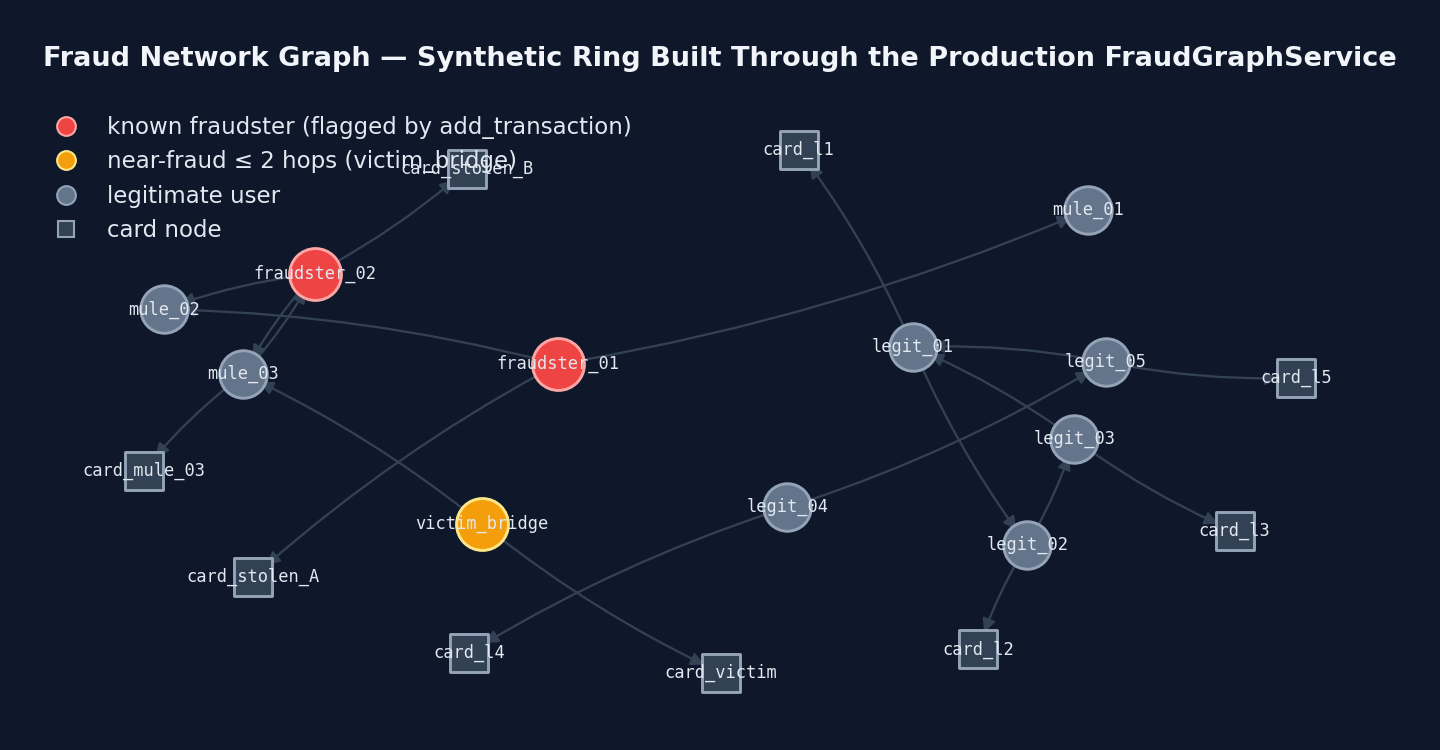
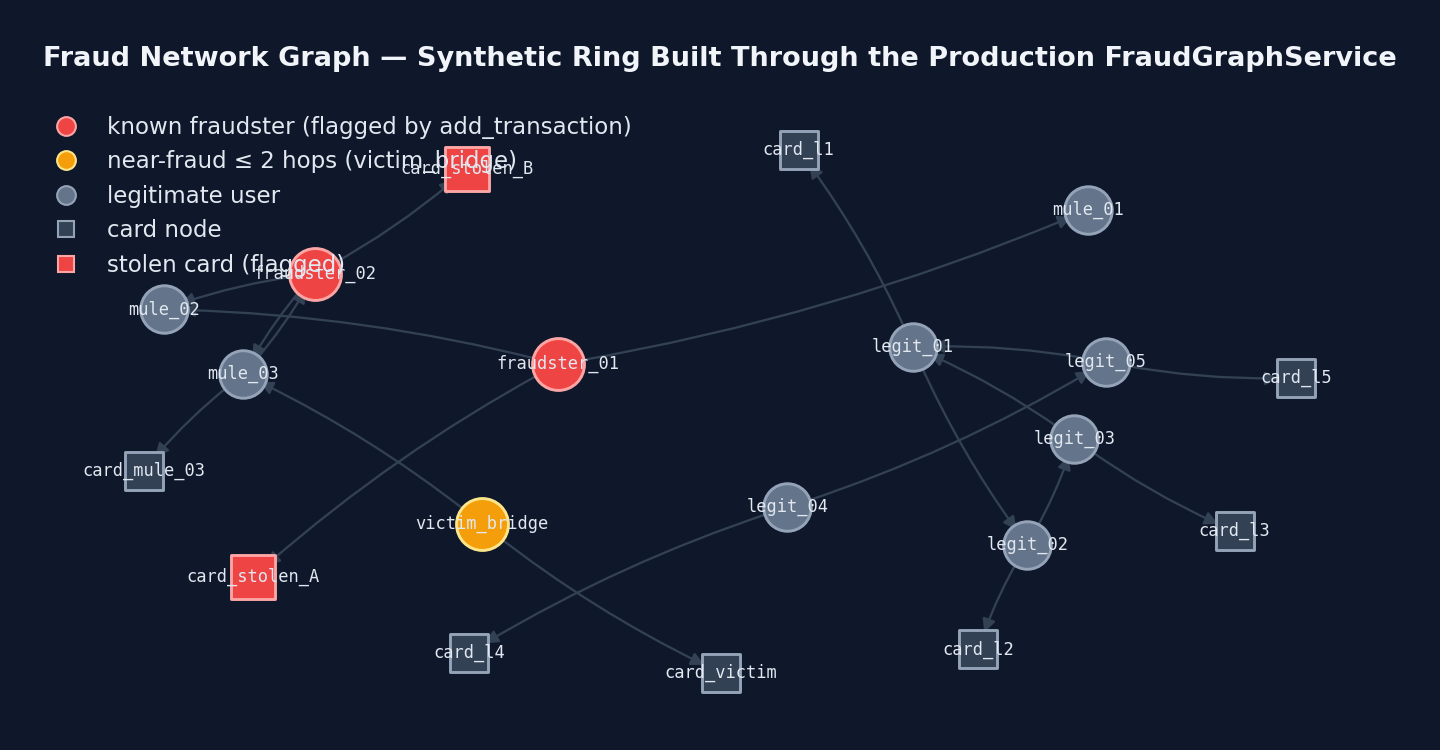
chore(case-study): close phase-c review findings
Network figure now renders flagged stolen cards as red squares matching the service flags and its own alt/caption text; fixed an English calque and two register slips in ES copy; harmonized ES alt decimals to comma convention and unified rel=noopener noreferrer on external links.

Changed region(s): [[0.0312, 0.3373, 0.25, 0.368], [0.1562, 0.736, 0.2188, 0.828], [0.2812, 0.184, 0.3438, 0.276]]

diff --git a/case-study/es/ch-08-drift.html b/case-study/es/ch-08-drift.html
@@ -61,7 +61,7 @@
         </ul>
 
         <figure class="figure">
-          <img loading="lazy" decoding="async" src="../assets/feature-drift.png" alt="Gráfico de barras horizontales del Population Stability Index por feature bajo un escenario de drift simulado: amount se dispara a 0.634, muy por encima de la línea crítica roja en 0.25, mientras velocity_5min muestra una pequeña suba en 0.016 y user_avg_amount, user_std_amount y velocity_1h quedan planos cerca de cero; líneas punteadas ámbar y roja marcan los umbrales convencionales warn 0.10 y critical 0.25." width="1440" height="750">
+          <img loading="lazy" decoding="async" src="../assets/feature-drift.png" alt="Gráfico de barras horizontales del Population Stability Index por feature bajo un escenario de drift simulado: amount se dispara a 0,634, muy por encima de la línea crítica roja en 0,25, mientras velocity_5min muestra una pequeña suba en 0,016 y user_avg_amount, user_std_amount y velocity_1h quedan planos cerca de cero; líneas punteadas ámbar y roja marcan los umbrales convencionales warn 0,10 y critical 0,25." width="1440" height="750">
           <figcaption><strong>Escenario de drift simulado:</strong> PSI calculado con numpy puro
           entre dos ventanas reales de <code>data/synthetic_transactions.csv</code> — filas
           0&ndash;24.999 de referencia intactas contra filas 25.000&ndash;49.999 actuales llevando
@@ -69,8 +69,8 @@
           &times;1,6 sobre toda la ventana actual; <code>velocity_5min</code> &times;3 sobre su
           último 15%, la columna del CSV detrás de la feature de producción
           <code>tx_count_last_5min</code>). Resultado: amount rebasa con creces el umbral crítico
-          convencional mientras las features intactas se pegan a cero — exactamente lo que un
-          ataque real de inflación de importes se vería ante este detector. Las líneas
+          convencional mientras las features intactas se pegan a cero — exactamente cómo
+          se vería un ataque real de inflación de importes ante este detector. Las líneas
           0,10 / 0,25 son las lecturas convencionales de la industria para PSI (warn / critical),
           no alarmas específicas del proyecto. Artefacto:
           <code>case-study/assets/feature-drift.png</code>, generado por
@@ -109,7 +109,7 @@
         <p>Proyecto de portfolio de IA/ML. Cada número de estas páginas se remonta a un artefacto real del repositorio.</p>
       </div>
       <div class="footer-col">
-        <p><a href="https://github.com/mikelrh-dev/fraud-detector" target="_blank" rel="noopener noreferrer">GitHub</a> · <a href="mailto:mikelromerohomobono@gmail.com">Email</a> · <a href="https://www.linkedin.com/in/mikel-romero-homobono-760878337" target="_blank" rel="noopener">LinkedIn</a></p>
+        <p><a href="https://github.com/mikelrh-dev/fraud-detector" target="_blank" rel="noopener noreferrer">GitHub</a> · <a href="mailto:mikelromerohomobono@gmail.com">Email</a> · <a href="https://www.linkedin.com/in/mikel-romero-homobono-760878337" target="_blank" rel="noopener noreferrer">LinkedIn</a></p>
         <p>Stack: FastAPI · XGBoost · SHAP · Redis Streams · Ollama · React 19</p>
       </div>
     </div>

diff --git a/case-study/es/ch-07-network-signals.html b/case-study/es/ch-07-network-signals.html
@@ -69,12 +69,13 @@
         transacción.</p>
 
         <figure class="figure">
-          <img loading="lazy" decoding="async" src="../assets/network-graph.png" alt="Grafo dirigido de un anillo de fraude sintético: cuatro nodos rojos marcan defraudadores conocidos y tarjetas robadas señaladas por el servicio de producción, un nodo ámbar marca un usuario legítimo a exactamente dos saltos de un defraudador vía una cuenta mula, círculos pizarra son usuarios legítimos, cuadrados pizarra son nodos de tarjeta, flechas pizarra finas muestran la dirección de las transacciones." width="1440" height="750">
+          <img loading="lazy" decoding="async" src="../assets/network-graph.png" alt="Grafo dirigido de un anillo de fraude sintético: dos círculos rojos marcan remitentes defraudadores conocidos y dos cuadrados rojos sus tarjetas robadas señaladas, un nodo ámbar marca un usuario legítimo a exactamente dos saltos de un defraudador vía una cuenta mula, círculos pizarra son usuarios legítimos, cuadrados pizarra son nodos de tarjeta limpios, flechas pizarra finas muestran la dirección de las transacciones." width="1440" height="750">
           <figcaption><strong>Anillo sintético, detección real:</strong> cada nodo, arista y
           bandera de defraudador fue creado llamando al
           <code>FraudGraphService.add_transaction()</code> de producción — el mismo camino de
           código que ejercita cada request a la API. Las transacciones fraudulentas marcan
-          remitentes y tarjetas como defraudadores conocidos (rojo);
+          remitentes (círculos rojos) y sus tarjetas (cuadrados rojos) como
+          defraudadores conocidos;
           <span class="tone-warn">victim_bridge</span> (ámbar) simplemente paga a una cuenta mula y
           queda a exactamente 2 saltos dirigidos de uno, así que
           <code>get_graph_features()</code> devuelve <code>is_near_fraud=1</code> y la regla
@@ -128,7 +129,7 @@
         <p>Proyecto de portfolio de IA/ML. Cada número de estas páginas se remonta a un artefacto real del repositorio.</p>
       </div>
       <div class="footer-col">
-        <p><a href="https://github.com/mikelrh-dev/fraud-detector" target="_blank" rel="noopener noreferrer">GitHub</a> · <a href="mailto:mikelromerohomobono@gmail.com">Email</a> · <a href="https://www.linkedin.com/in/mikel-romero-homobono-760878337" target="_blank" rel="noopener">LinkedIn</a></p>
+        <p><a href="https://github.com/mikelrh-dev/fraud-detector" target="_blank" rel="noopener noreferrer">GitHub</a> · <a href="mailto:mikelromerohomobono@gmail.com">Email</a> · <a href="https://www.linkedin.com/in/mikel-romero-homobono-760878337" target="_blank" rel="noopener noreferrer">LinkedIn</a></p>
         <p>Stack: FastAPI · XGBoost · SHAP · Redis Streams · Ollama · React 19</p>
       </div>
     </div>

diff --git a/case-study/en/ch-07-network-signals.html b/case-study/en/ch-07-network-signals.html
@@ -67,11 +67,12 @@
         one transaction.</p>
 
         <figure class="figure">
-          <img loading="lazy" decoding="async" src="../assets/network-graph.png" alt="Directed network graph of a synthetic fraud ring: four red nodes mark known fraudsters and stolen cards flagged by the production service, an amber node marks a legitimate user sitting exactly two hops from a fraudster through a mule account, slate circles are legitimate users, slate squares are card nodes, thin slate arrows show transaction direction." width="1440" height="750">
+          <img loading="lazy" decoding="async" src="../assets/network-graph.png" alt="Directed network graph of a synthetic fraud ring: two red circles mark known fraudster senders and two red squares their flagged stolen cards, an amber node marks a legitimate user sitting exactly two hops from a fraudster through a mule account, slate circles are legitimate users, slate squares are clean card nodes, thin slate arrows show transaction direction." width="1440" height="750">
           <figcaption><strong>Synthetic ring, real detection:</strong> every node, edge and
           fraudster flag above was created by calling the production
           <code>FraudGraphService.add_transaction()</code> — the exact code path each API request
-          exercises. Fraudulent transactions mark senders and cards as known fraudsters (red);
+          exercises. Fraudulent transactions mark senders (red circles) and their
+          cards (red squares) as known fraudsters;
           <span class="tone-warn">victim_bridge</span> (amber) simply pays a mule account and
           lands exactly 2 directed hops from one, so <code>get_graph_features()</code> returns
           <code>is_near_fraud=1</code> and the <code>near_fraud</code> rule fires (+15). The
@@ -122,7 +123,7 @@
         <p>Built as an AI/ML portfolio project. Every number on these pages traces back to a real artifact in the repository.</p>
       </div>
       <div class="footer-col">
-        <p><a href="https://github.com/mikelrh-dev/fraud-detector" target="_blank" rel="noopener noreferrer">GitHub</a> · <a href="mailto:mikelromerohomobono@gmail.com">Email</a> · <a href="https://www.linkedin.com/in/mikel-romero-homobono-760878337" target="_blank" rel="noopener">LinkedIn</a></p>
+        <p><a href="https://github.com/mikelrh-dev/fraud-detector" target="_blank" rel="noopener noreferrer">GitHub</a> · <a href="mailto:mikelromerohomobono@gmail.com">Email</a> · <a href="https://www.linkedin.com/in/mikel-romero-homobono-760878337" target="_blank" rel="noopener noreferrer">LinkedIn</a></p>
         <p>Stack: FastAPI · XGBoost · SHAP · Redis Streams · Ollama · React 19</p>
       </div>
     </div>

diff --git a/case-study/es/ch-11-aprendizajes.html b/case-study/es/ch-11-aprendizajes.html
@@ -123,12 +123,12 @@
         <hr class="section-divider">
         <div class="callout">
           <span class="callout-title">Hablemos</span>
-          <p>Si este caso de estudio resuena contigo — la arquitectura primero, los números
+          <p>Si este caso de estudio te interesa — la arquitectura primero, los números
           honestos, la obsesión por la confiabilidad — me encantaría conversar.</p>
         </div>
         <div class="link-btn-group">
           <a class="link-btn btn-solid" href="mailto:mikelromerohomobono@gmail.com">Escríbeme &rarr;</a>
-          <a class="link-btn" href="https://www.linkedin.com/in/mikel-romero-homobono-760878337" target="_blank" rel="noopener">LinkedIn &rarr;</a>
+          <a class="link-btn" href="https://www.linkedin.com/in/mikel-romero-homobono-760878337" target="_blank" rel="noopener noreferrer">LinkedIn &rarr;</a>
           <a class="link-btn" href="https://github.com/mikelrh-dev/fraud-detector" target="_blank" rel="noopener noreferrer">GitHub &rarr;</a>
         </div>
       </div>
@@ -143,7 +143,7 @@
         <p>Proyecto de portfolio de IA/ML. Cada número de estas páginas se remonta a un artefacto real del repositorio.</p>
       </div>
       <div class="footer-col">
-        <p><a href="https://github.com/mikelrh-dev/fraud-detector" target="_blank" rel="noopener noreferrer">GitHub</a> · <a href="mailto:mikelromerohomobono@gmail.com">Email</a> · <a href="https://www.linkedin.com/in/mikel-romero-homobono-760878337" target="_blank" rel="noopener">LinkedIn</a></p>
+        <p><a href="https://github.com/mikelrh-dev/fraud-detector" target="_blank" rel="noopener noreferrer">GitHub</a> · <a href="mailto:mikelromerohomobono@gmail.com">Email</a> · <a href="https://www.linkedin.com/in/mikel-romero-homobono-760878337" target="_blank" rel="noopener noreferrer">LinkedIn</a></p>
         <p>Stack: FastAPI · XGBoost · SHAP · Redis Streams · Ollama · React 19</p>
       </div>
     </div>

diff --git a/case-study/es/ch-09-reliability.html b/case-study/es/ch-09-reliability.html
@@ -162,7 +162,7 @@
             <text x="48" y="202" font-family="'Source Sans 3', -apple-system, BlinkMacSystemFont, sans-serif" font-size="14" font-weight="600" fill="#f1f5f9">Garantías de entrega</text>
 
             <circle cx="58" cy="234" r="4.5" fill="#22c55e"/>
-            <text x="74" y="230" font-family="'Source Sans 3', -apple-system, BlinkMacSystemFont, sans-serif" font-size="12" fill="#cbd5e1">XACK recién después de que el worker</text>
+            <text x="74" y="230" font-family="'Source Sans 3', -apple-system, BlinkMacSystemFont, sans-serif" font-size="12" fill="#cbd5e1">XACK solo después de que el worker</text>
             <text x="74" y="248" font-family="'Source Sans 3', -apple-system, BlinkMacSystemFont, sans-serif" font-size="12" fill="#cbd5e1">persiste su resultado — sin pérdida silenciosa.</text>
 
             <circle cx="58" cy="292" r="4.5" fill="#f59e0b"/>
@@ -215,7 +215,7 @@
         <p>Proyecto de portfolio de IA/ML. Cada número de estas páginas se remonta a un artefacto real del repositorio.</p>
       </div>
       <div class="footer-col">
-        <p><a href="https://github.com/mikelrh-dev/fraud-detector" target="_blank" rel="noopener noreferrer">GitHub</a> · <a href="mailto:mikelromerohomobono@gmail.com">Email</a> · <a href="https://www.linkedin.com/in/mikel-romero-homobono-760878337" target="_blank" rel="noopener">LinkedIn</a></p>
+        <p><a href="https://github.com/mikelrh-dev/fraud-detector" target="_blank" rel="noopener noreferrer">GitHub</a> · <a href="mailto:mikelromerohomobono@gmail.com">Email</a> · <a href="https://www.linkedin.com/in/mikel-romero-homobono-760878337" target="_blank" rel="noopener noreferrer">LinkedIn</a></p>
         <p>Stack: FastAPI · XGBoost · SHAP · Redis Streams · Ollama · React 19</p>
       </div>
     </div>

diff --git a/case-study/en/ch-11-aprendizajes.html b/case-study/en/ch-11-aprendizajes.html
@@ -126,7 +126,7 @@
         </div>
         <div class="link-btn-group">
           <a class="link-btn btn-solid" href="mailto:mikelromerohomobono@gmail.com">Email me &rarr;</a>
-          <a class="link-btn" href="https://www.linkedin.com/in/mikel-romero-homobono-760878337" target="_blank" rel="noopener">LinkedIn &rarr;</a>
+          <a class="link-btn" href="https://www.linkedin.com/in/mikel-romero-homobono-760878337" target="_blank" rel="noopener noreferrer">LinkedIn &rarr;</a>
           <a class="link-btn" href="https://github.com/mikelrh-dev/fraud-detector" target="_blank" rel="noopener noreferrer">GitHub &rarr;</a>
         </div>
       </div>
@@ -141,7 +141,7 @@
         <p>Built as an AI/ML portfolio project. Every number on these pages traces back to a real artifact in the repository.</p>
       </div>
       <div class="footer-col">
-        <p><a href="https://github.com/mikelrh-dev/fraud-detector" target="_blank" rel="noopener noreferrer">GitHub</a> · <a href="mailto:mikelromerohomobono@gmail.com">Email</a> · <a href="https://www.linkedin.com/in/mikel-romero-homobono-760878337" target="_blank" rel="noopener">LinkedIn</a></p>
+        <p><a href="https://github.com/mikelrh-dev/fraud-detector" target="_blank" rel="noopener noreferrer">GitHub</a> · <a href="mailto:mikelromerohomobono@gmail.com">Email</a> · <a href="https://www.linkedin.com/in/mikel-romero-homobono-760878337" target="_blank" rel="noopener noreferrer">LinkedIn</a></p>
         <p>Stack: FastAPI · XGBoost · SHAP · Redis Streams · Ollama · React 19</p>
       </div>
     </div>

diff --git a/case-study/en/ch-01-arquitectura.html b/case-study/en/ch-01-arquitectura.html
@@ -193,7 +193,7 @@
         <p>Built as an AI/ML portfolio project. Every number on these pages traces back to a real artifact in the repository.</p>
       </div>
       <div class="footer-col">
-        <p><a href="https://github.com/mikelrh-dev/fraud-detector" target="_blank" rel="noopener noreferrer">GitHub</a> · <a href="mailto:mikelromerohomobono@gmail.com">Email</a> · <a href="https://www.linkedin.com/in/mikel-romero-homobono-760878337" target="_blank" rel="noopener">LinkedIn</a></p>
+        <p><a href="https://github.com/mikelrh-dev/fraud-detector" target="_blank" rel="noopener noreferrer">GitHub</a> · <a href="mailto:mikelromerohomobono@gmail.com">Email</a> · <a href="https://www.linkedin.com/in/mikel-romero-homobono-760878337" target="_blank" rel="noopener noreferrer">LinkedIn</a></p>
         <p>Stack: FastAPI · XGBoost · SHAP · Redis Streams · Ollama · React 19</p>
       </div>
     </div>

diff --git a/case-study/en/ch-02-rule-engine.html b/case-study/en/ch-02-rule-engine.html
@@ -106,7 +106,7 @@
         <p>Built as an AI/ML portfolio project. Every number on these pages traces back to a real artifact in the repository.</p>
       </div>
       <div class="footer-col">
-        <p><a href="https://github.com/mikelrh-dev/fraud-detector" target="_blank" rel="noopener noreferrer">GitHub</a> · <a href="mailto:mikelromerohomobono@gmail.com">Email</a> · <a href="https://www.linkedin.com/in/mikel-romero-homobono-760878337" target="_blank" rel="noopener">LinkedIn</a></p>
+        <p><a href="https://github.com/mikelrh-dev/fraud-detector" target="_blank" rel="noopener noreferrer">GitHub</a> · <a href="mailto:mikelromerohomobono@gmail.com">Email</a> · <a href="https://www.linkedin.com/in/mikel-romero-homobono-760878337" target="_blank" rel="noopener noreferrer">LinkedIn</a></p>
         <p>Stack: FastAPI · XGBoost · SHAP · Redis Streams · Ollama · React 19</p>
       </div>
     </div>

diff --git a/case-study/en/ch-03-xgboost.html b/case-study/en/ch-03-xgboost.html
@@ -196,7 +196,7 @@
         <p>Built as an AI/ML portfolio project. Every number on these pages traces back to a real artifact in the repository.</p>
       </div>
       <div class="footer-col">
-        <p><a href="https://github.com/mikelrh-dev/fraud-detector" target="_blank" rel="noopener noreferrer">GitHub</a> · <a href="mailto:mikelromerohomobono@gmail.com">Email</a> · <a href="https://www.linkedin.com/in/mikel-romero-homobono-760878337" target="_blank" rel="noopener">LinkedIn</a></p>
+        <p><a href="https://github.com/mikelrh-dev/fraud-detector" target="_blank" rel="noopener noreferrer">GitHub</a> · <a href="mailto:mikelromerohomobono@gmail.com">Email</a> · <a href="https://www.linkedin.com/in/mikel-romero-homobono-760878337" target="_blank" rel="noopener noreferrer">LinkedIn</a></p>
         <p>Stack: FastAPI · XGBoost · SHAP · Redis Streams · Ollama · React 19</p>
       </div>
     </div>

diff --git a/case-study/en/ch-04-model-evaluation.html b/case-study/en/ch-04-model-evaluation.html
@@ -176,7 +176,7 @@
         <p>Built as an AI/ML portfolio project. Every number on these pages traces back to a real artifact in the repository.</p>
       </div>
       <div class="footer-col">
-        <p><a href="https://github.com/mikelrh-dev/fraud-detector" target="_blank" rel="noopener noreferrer">GitHub</a> · <a href="mailto:mikelromerohomobono@gmail.com">Email</a> · <a href="https://www.linkedin.com/in/mikel-romero-homobono-760878337" target="_blank" rel="noopener">LinkedIn</a></p>
+        <p><a href="https://github.com/mikelrh-dev/fraud-detector" target="_blank" rel="noopener noreferrer">GitHub</a> · <a href="mailto:mikelromerohomobono@gmail.com">Email</a> · <a href="https://www.linkedin.com/in/mikel-romero-homobono-760878337" target="_blank" rel="noopener noreferrer">LinkedIn</a></p>
         <p>Stack: FastAPI · XGBoost · SHAP · Redis Streams · Ollama · React 19</p>
       </div>
     </div>

diff --git a/case-study/en/ch-05-ensemble.html b/case-study/en/ch-05-ensemble.html
@@ -122,7 +122,7 @@
         <p>Built as an AI/ML portfolio project. Every number on these pages traces back to a real artifact in the repository.</p>
       </div>
       <div class="footer-col">
-        <p><a href="https://github.com/mikelrh-dev/fraud-detector" target="_blank" rel="noopener noreferrer">GitHub</a> · <a href="mailto:mikelromerohomobono@gmail.com">Email</a> · <a href="https://www.linkedin.com/in/mikel-romero-homobono-760878337" target="_blank" rel="noopener">LinkedIn</a></p>
+        <p><a href="https://github.com/mikelrh-dev/fraud-detector" target="_blank" rel="noopener noreferrer">GitHub</a> · <a href="mailto:mikelromerohomobono@gmail.com">Email</a> · <a href="https://www.linkedin.com/in/mikel-romero-homobono-760878337" target="_blank" rel="noopener noreferrer">LinkedIn</a></p>
         <p>Stack: FastAPI · XGBoost · SHAP · Redis Streams · Ollama · React 19</p>
       </div>
     </div>

diff --git a/case-study/en/ch-06-shap.html b/case-study/en/ch-06-shap.html
@@ -100,7 +100,7 @@
         <p>Built as an AI/ML portfolio project. Every number on these pages traces back to a real artifact in the repository.</p>
       </div>
       <div class="footer-col">
-        <p><a href="https://github.com/mikelrh-dev/fraud-detector" target="_blank" rel="noopener noreferrer">GitHub</a> · <a href="mailto:mikelromerohomobono@gmail.com">Email</a> · <a href="https://www.linkedin.com/in/mikel-romero-homobono-760878337" target="_blank" rel="noopener">LinkedIn</a></p>
+        <p><a href="https://github.com/mikelrh-dev/fraud-detector" target="_blank" rel="noopener noreferrer">GitHub</a> · <a href="mailto:mikelromerohomobono@gmail.com">Email</a> · <a href="https://www.linkedin.com/in/mikel-romero-homobono-760878337" target="_blank" rel="noopener noreferrer">LinkedIn</a></p>
         <p>Stack: FastAPI · XGBoost · SHAP · Redis Streams · Ollama · React 19</p>
       </div>
     </div>
